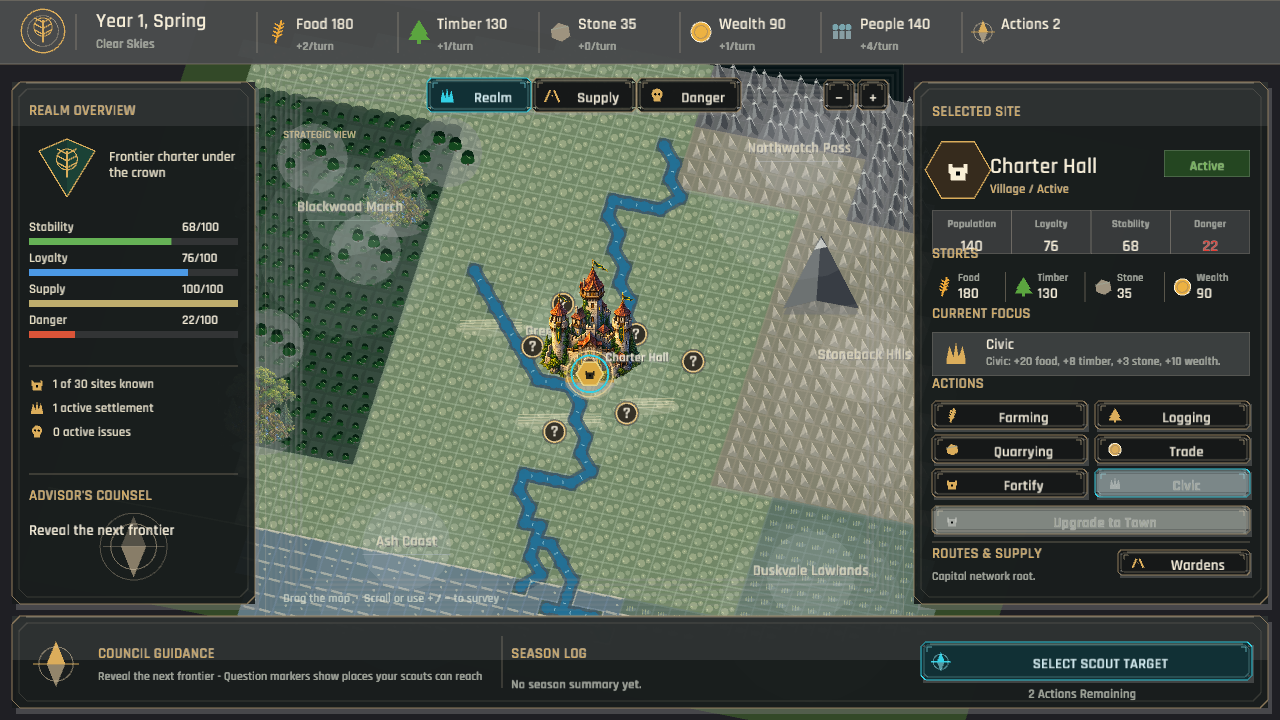
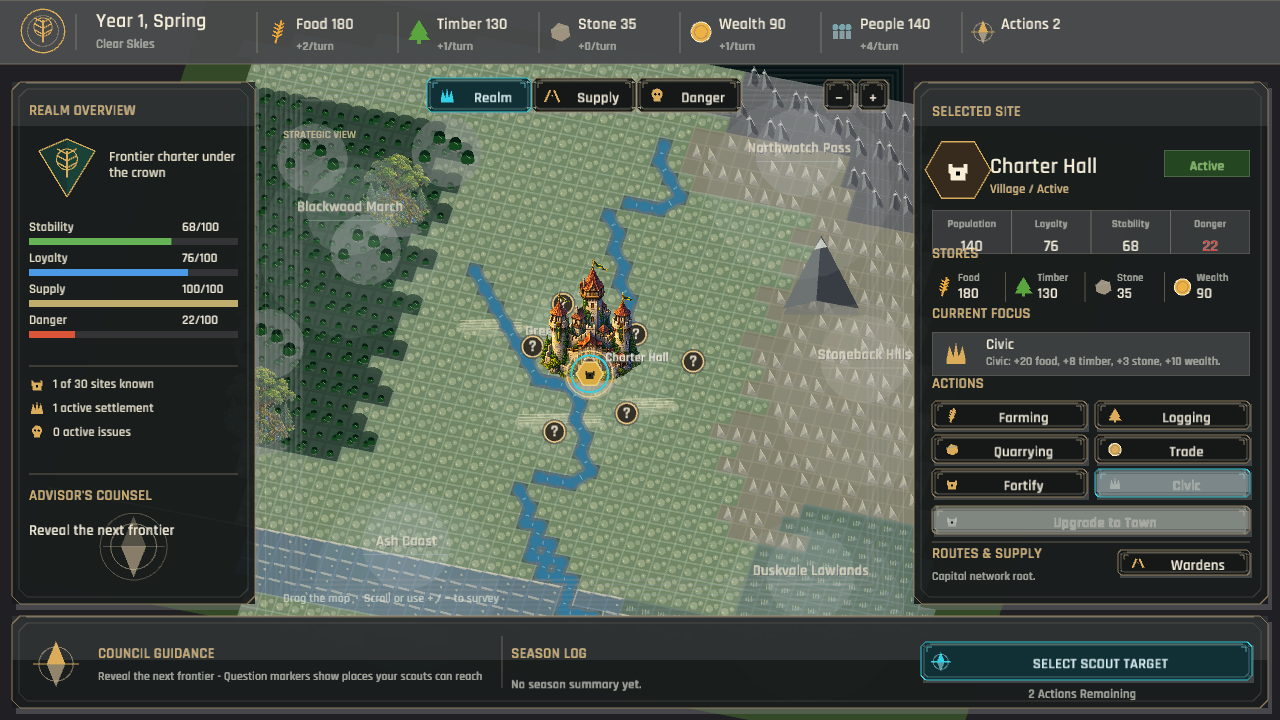
The wilds loosen their square borders (GDD 6 organic terrain silhouettes)
The forest, hill, and mountain masks were authored as rigid rectangular bands, while the river was almost entirely one cell wide. Reshape the terrain rows into staggered biome edges, add a few two- and three-cell river reaches, and keep the river narrow between those wider pools so the map reads as authored land instead of a grid.

Reduce repeated mountain and hill faces and soften river bank and shimmer contrast so the new silhouettes carry the view without becoming noisy. Verified the terrain data as 40 rows by 60 columns, reviewed the gameplay capture, and passed publish.ps1 through Windows/WebGL packaging and Preview deployment.

diff --git a/src/ui/map_terrain.rs b/src/ui/map_terrain.rs
@@ -339,8 +339,16 @@ fn draw_terrain_detail(
     match terrain_id {
         "plains" => draw_plains_detail(center, size, seed),
         "forest" => draw_forest_detail(center, size, seed),
-        "hills" => draw_hill_detail(center, quad, size, seed),
-        "mountain" => draw_mountain_detail(center, quad, size, seed),
+        "hills" => {
+            if !seed.is_multiple_of(3) {
+                draw_hill_detail(center, quad, size, seed);
+            }
+        }
+        "mountain" => {
+            if seed.is_multiple_of(3) {
+                draw_mountain_detail(center, quad, size, seed);
+            }
+        }
         "river" => draw_water_detail(center, size, seed),
         "coast" => draw_coast_detail(center, quad, size, seed),
         "marsh" => draw_marsh_detail(center, size, seed),
@@ -629,7 +637,7 @@ fn draw_river_network(ctx: &UiContext<'_>, view: &MapView) {
                 center.x,
                 center.y,
                 tile_size * 0.43,
-                Color::new(0.025, 0.16, 0.25, 0.78),
+                Color::new(0.025, 0.16, 0.25, 0.64),
             );
             draw_river_connections(ctx, view, x, y, tile_size * 0.78, false);
         }
@@ -645,7 +653,7 @@ fn draw_river_network(ctx: &UiContext<'_>, view: &MapView) {
                 center.x,
                 center.y,
                 tile_size * 0.30,
-                Color::new(0.08, 0.40, 0.56, 0.94),
+                Color::new(0.08, 0.40, 0.56, 0.88),
             );
             draw_river_connections(ctx, view, x, y, tile_size * 0.44, true);
         }
@@ -668,9 +676,9 @@ fn draw_river_connections(
 ) {
     let center = view.tile_center(x as i32, y as i32);
     let color = if highlight {
-        Color::new(0.08, 0.40, 0.56, 0.94)
+        Color::new(0.08, 0.40, 0.56, 0.88)
     } else {
-        Color::new(0.025, 0.16, 0.25, 0.78)
+        Color::new(0.025, 0.16, 0.25, 0.64)
     };
     let right = is_river_cell(ctx, (x + 1) as i32, y as i32);
     let down = is_river_cell(ctx, x as i32, (y + 1) as i32);
@@ -711,7 +719,7 @@ fn draw_river_segment(
             midpoint.x + (end.y - center.y) * 0.10,
             midpoint.y - (end.x - center.x) * 0.10,
             1.0,
-            Color::new(0.54, 0.84, 0.88, 0.46),
+            Color::new(0.54, 0.84, 0.88, 0.30),
         );
     }
 }
